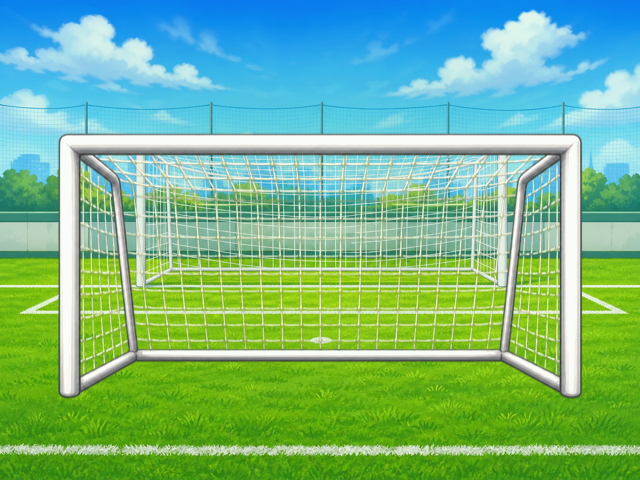
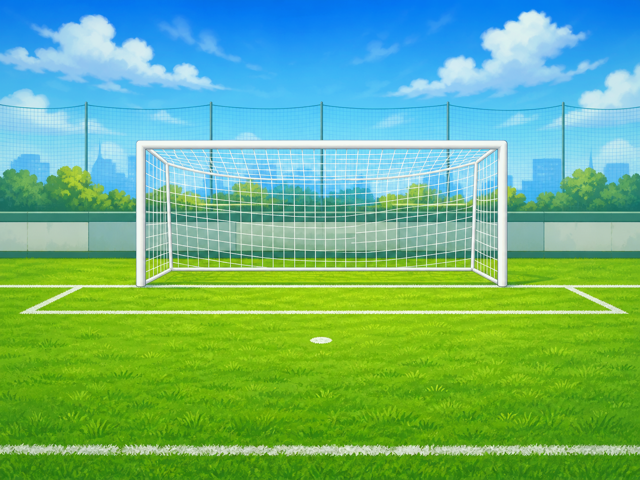
ajuste foto dos gols, e botao iniciar do menu funcional

Changed region(s): [[0.0938, 0.25, 0.9062, 0.8438]]

diff --git a/Tarafel/core/src/main/java/br/mackenzie/Main.java b/Tarafel/core/src/main/java/br/mackenzie/Main.java
@@ -13,13 +13,20 @@ import com.badlogic.gdx.utils.ScreenUtils;
 
 /** {@link com.badlogic.gdx.ApplicationListener} implementation shared by all platforms. */
 public class Main extends ApplicationAdapter {
+    private enum Tela {
+        MENU, JOGO
+    }
+
     private SpriteBatch batch;
     private ShapeRenderer shape;
     private BitmapFont font;
     private GlyphLayout layout;
     private Texture fundoMenu;
+    private Texture fundoJogo;
     private Texture goleiroParado;
     private Texture goleiroPulando;
+    private Goleiro goleiro;
+    private Tela telaAtual = Tela.MENU;
 
     private Botao botaoIniciar;
     private Botao botaoComoJogar;
@@ -33,8 +40,11 @@ public class Main extends ApplicationAdapter {
         font = new BitmapFont();
         layout = new GlyphLayout();
         fundoMenu = new Texture("img/menu_gol.png");
+        fundoJogo = new Texture("img/gol_facil.png");
         goleiroParado = new Texture("img/goleiro.png");
         goleiroPulando = new Texture("img/goleiro_pulando.png");
+        goleiro = new Goleiro("img/goleiro.png", "img/goleiro_pulando.png", "img/goleiro_caido.png");
+        goleiro.setDefaultPosition(278, 70);
 
         font.getData().setScale(1.4f);
 
@@ -46,9 +56,17 @@ public class Main extends ApplicationAdapter {
     @Override
     public void render() {
         verificarClique();
-        tempoAnimacao += Gdx.graphics.getDeltaTime();
+        float deltaTime = Gdx.graphics.getDeltaTime();
+        tempoAnimacao += deltaTime;
 
         ScreenUtils.clear(0.1f, 0.45f, 0.2f, 1f);
+
+        if (telaAtual == Tela.JOGO) {
+            atualizarJogo(deltaTime);
+            desenharJogo();
+            return;
+        }
+
         batch.begin();
         batch.draw(fundoMenu, 0, 0, 640, 480);
         batch.end();
@@ -62,6 +80,7 @@ public class Main extends ApplicationAdapter {
         shape.dispose();
         font.dispose();
         fundoMenu.dispose();
+        fundoJogo.dispose();
         goleiroParado.dispose();
         goleiroPulando.dispose();
     }
@@ -75,10 +94,15 @@ public class Main extends ApplicationAdapter {
             return;
         }
 
+        if (telaAtual != Tela.MENU) {
+            return;
+        }
+
         float mouseX = Gdx.input.getX();
         float mouseY = 480 - Gdx.input.getY();
 
         if (botaoIniciar.contem(mouseX, mouseY)) {
+            telaAtual = Tela.JOGO;
             botaoIniciar.clicar();
         } else if (botaoComoJogar.contem(mouseX, mouseY)) {
             botaoComoJogar.clicar();
@@ -93,6 +117,23 @@ public class Main extends ApplicationAdapter {
         botaoIniciar.desenhar(shape, batch, font, layout);
         botaoComoJogar.desenhar(shape, batch, font, layout);
         botaoPontuacao.desenhar(shape, batch, font, layout);
+    }
+
+    private void desenharJogo() {
+        batch.begin();
+        batch.draw(fundoJogo, 0, 0, 640, 480);
+        goleiro.draw(batch);
+        batch.end();
+    }
+
+    private void atualizarJogo(float deltaTime) {
+        if (Gdx.input.isKeyJustPressed(Input.Keys.LEFT) || Gdx.input.isKeyJustPressed(Input.Keys.A)) {
+            goleiro.dive(Direction.LEFT);
+        } else if (Gdx.input.isKeyJustPressed(Input.Keys.RIGHT) || Gdx.input.isKeyJustPressed(Input.Keys.D)) {
+            goleiro.dive(Direction.RIGHT);
+        }
+
+        goleiro.update(deltaTime);
     }
 
     private void desenharGoleiro() {
